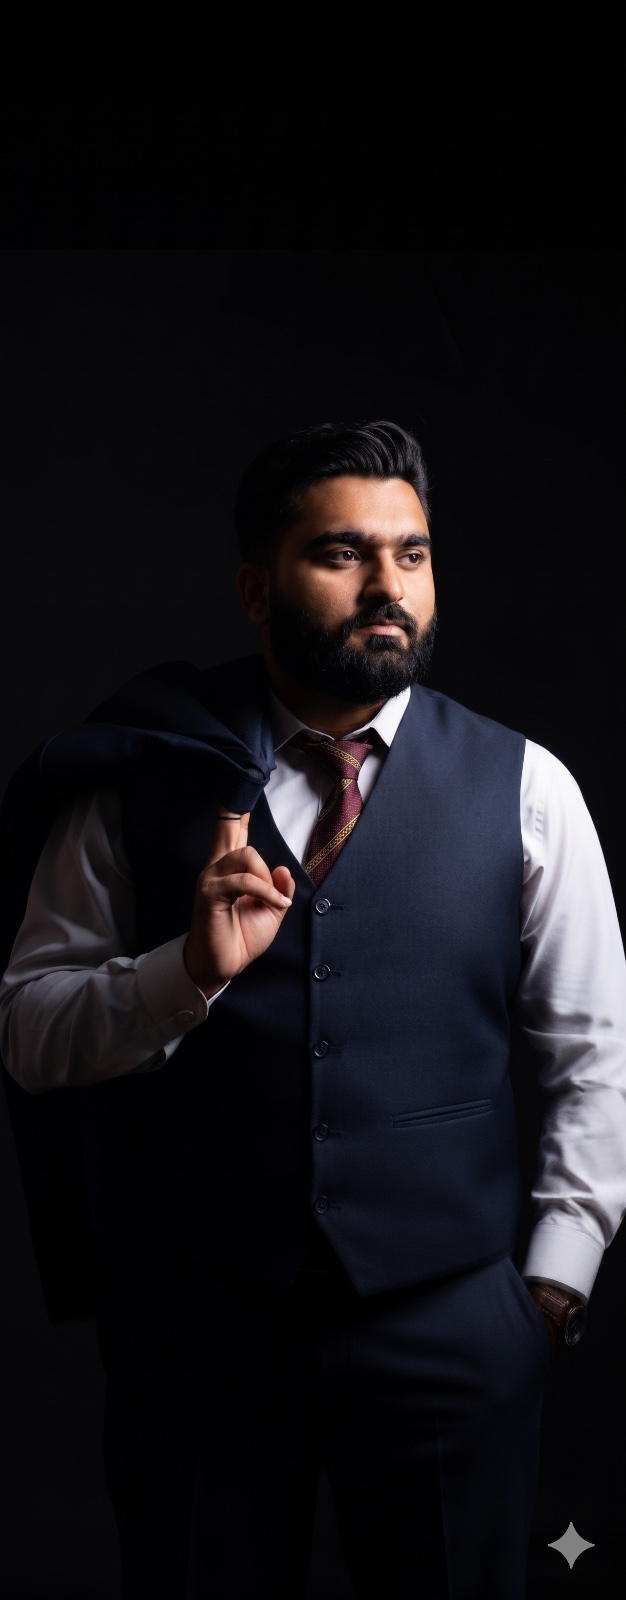
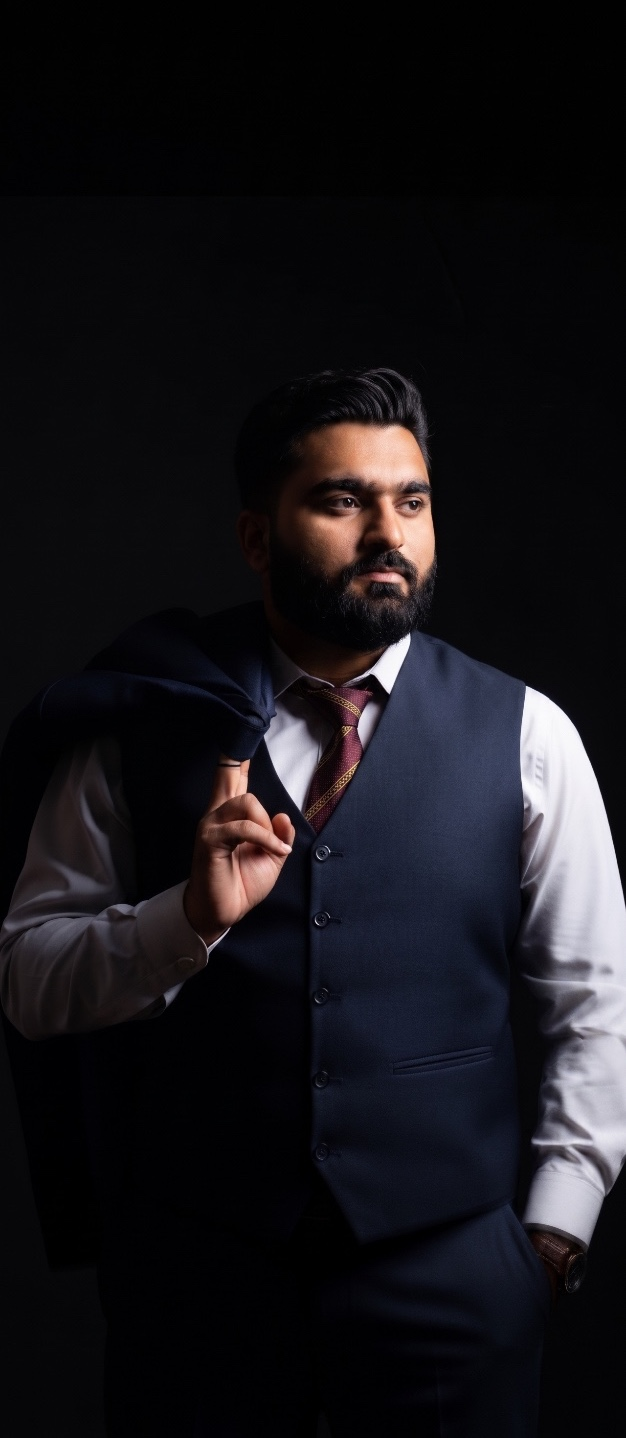
Changed the serviceBased page in service file, updated bakground pics with more appealing theme ,changed all the services details and updated the content by replacing dummy with real one

diff --git a/resources/js/Components/Hero/Services.jsx b/resources/js/Components/Hero/Services.jsx
@@ -89,9 +89,10 @@ const Services = () => {
             category: 'service',
             expertise: "DevOps & Scaling",
             stats: "99.9% Uptime",
-            description: "Scalable and secure cloud hosting, DevOps, and infrastructure management solutions.",
-            items: ["AWS/Azure Management", "CI/CD Pipelines", "Kubernetes Orchestration", "Server Migration"],
+            description: "Enterprise logistics platform for HTV fleet management — company fleet registration, multi-order dispatch, driver hiring, and real-time cargo tracking system..",
+            items: ["Fleet & Company Registration", "Multi-Order Bulk Dispatch", "Live Cargo Trading System", "Driver Hiring & Tracking"],
             bg: "bg-gradient-to-br from-orange-600/10 via-orange-600/5 to-transparent border-orange-500/20",
+            bgImage: "/assets/Website icons/LOADERS.png",
             image: "/assets/images/macbook.png",
             icon: "/assets/images/macbook_logo.png",
             techIcons: [
@@ -105,9 +106,10 @@ const Services = () => {
             category: 'service',
             expertise: "Security Audits",
             stats: "Zero Breaches",
-            description: "Enterprise-grade security audits, threat protection, and vulnerability assessments.",
-            items: ["Security Audits", "Penetration Testing", "Encryption Solutions", "Threat Monitoring"],
+            description: "On-demand home services marketplace — plumbers, electricians, mechanics, cleaners, AC techs, carpenters & more.",
+            items: ["Multi-Category Service Providers", "Customer Booking Portal", "Appointment Scheduling System", "Availability Management"],
             bg: "bg-gradient-to-br from-red-600/10 via-red-600/5 to-transparent border-red-500/20",
+            bgImage: "/assets/Website icons/KariGhar.png",
             image: "/assets/images/ai.png",
             icon: "/assets/images/ai_logo.png",
             techIcons: [
@@ -116,13 +118,14 @@ const Services = () => {
             ]
         },
         {
-            title: "Digital Marketing",
+            title: "3D-Print",
             category: 'service',
             expertise: "Growth Hacking",
             stats: "3x ROI",
-            description: "Data-driven marketing strategies to increase your online presence and conversion rates.",
-            items: ["SEO Optimization", "Social Media Management", "Content Strategy", "PPC Campaigns"],
+            description: "Industrial 3D printing lab with Bambu Lab H2, P2S & more — custom prints on demand, dedicated medical devices, toys, and industrial components manufacturing.",
+            items: ["On-Demand Custom Printing", "Medical Industry Products", "Toys & Industrial Components", "High-Precision Bambu Lab Fleet"],
             bg: "bg-gradient-to-br from-green-600/10 via-green-600/5 to-transparent border-green-500/20",
+            bgImage: "/assets/Website icons/3d.png",
             image: "/assets/images/studio.png",
             icon: "/assets/images/studio_logo.png",
             techIcons: [
@@ -198,6 +201,14 @@ const Services = () => {
                                     onClick={() => isMobile && setFlippedCard(isFlipped ? null : index)}
                                     className={`${service.bg} ${service.className || ''} rounded-[2rem] p-6 sm:p-10 lg:p-12 relative overflow-hidden group lg:min-h-[380px] border flex flex-col lg:flex-row gap-8 lg:gap-10 items-start text-left transition-all duration-500 hover:scale-[1.01] lg:hover:scale-[1.02] hover:shadow-2xl hover:shadow-blue-600/10 cursor-pointer lg:cursor-default`}
                                 >
+                                    {/* Background Image */}
+                                    {service.bgImage && (
+                                        <img
+                                            src={service.bgImage}
+                                            alt=""
+                                            className="absolute inset-0 w-full h-full object-cover opacity-10 lg:group-hover:opacity-100 transition-opacity duration-700 pointer-events-none select-none z-0"
+                                        />
+                                    )}
                                     {/* Mobile Flip Indicator */}
                                     {isMobile && (
                                         <div className="absolute top-6 right-6 text-[8px] font-black uppercase tracking-widest text-blue-600/50">
@@ -210,7 +221,7 @@ const Services = () => {
                                         {/* Default Screen */}
                                         <div className={`transition-all duration-700 ease-[cubic-bezier(0.23,1,0.32,1)] 
                                             ${isFlipped ? 'opacity-0 -translate-y-12 scale-95 blur-sm' : 'opacity-100 translate-y-0 scale-100'}
-                                            lg:group-hover:opacity-0 lg:group-hover:-translate-y-12 lg:group-hover:scale-95 lg:group-hover:blur-sm`}>
+                                            ${service.bgImage ? 'lg:group-hover:opacity-0 lg:group-hover:scale-95' : 'lg:group-hover:opacity-0 lg:group-hover:-translate-y-12 lg:group-hover:scale-95 lg:group-hover:blur-sm'}`}>
                                             <div className="flex items-center gap-4 mb-8">
                                                 <div className="flex-shrink-0 flex items-center justify-center">
                                                     <img src={service.icon} alt="" width={40} height={40} className="sm:w-[50px] sm:h-[50px] brightness-110" />
@@ -233,35 +244,46 @@ const Services = () => {
                                         </div>
 
                                         {/* Hover/Flip Screen - Insights Dashboard */}
-                                        <div className={`absolute inset-0 transition-all duration-700 ease-[cubic-bezier(0.23,1,0.32,1)] flex flex-col justify-center
-                                            ${isFlipped ? 'opacity-100 translate-y-0 pointer-events-auto' : 'opacity-0 translate-y-12 pointer-events-none'}
-                                            lg:group-hover:opacity-100 lg:group-hover:translate-y-0 lg:group-hover:pointer-events-auto`}>
-                                            <div className="flex items-center gap-3 mb-6">
-                                                <div className="w-10 h-10 rounded-full bg-blue-600/20 border border-blue-500/30 flex items-center justify-center">
-                                                    <img src={service.icon} alt="" width={24} height={24} className="brightness-125" />
-                                                </div>
-                                                <h4 className="text-lg font-black text-white uppercase tracking-widest">Insights</h4>
+                                        {service.bgImage ? (
+                                            /* Custom hover for bgImage cards (LOADERS) — only show Explore Solutions */
+                                            <div className={`absolute inset-0 transition-all duration-700 ease-[cubic-bezier(0.23,1,0.32,1)] flex flex-col justify-end items-center pb-4 z-40 
+                                                ${isFlipped ? 'opacity-100 translate-y-0 pointer-events-auto' : 'opacity-0 translate-y-6 pointer-events-none'}
+                                                lg:group-hover:opacity-100 lg:group-hover:translate-y-0 lg:group-hover:pointer-events-auto`}>
+                                                <button className="w-fit px-8 py-3 bg-blue-500/90 hover:bg-white/90 text-black text-[10px] font-black uppercase tracking-[0.2em] rounded-full transition-all duration-300 shadow-lg shadow-black/20 active:scale-95 backdrop-blur-sm -mt-8 ">
+                                                    Explore Solutions
+                                                </button>
                                             </div>
+                                        ) : (
+                                            <div className={`absolute inset-0 transition-all duration-700 ease-[cubic-bezier(0.23,1,0.32,1)] flex flex-col justify-center
+                                                ${isFlipped ? 'opacity-100 translate-y-0 pointer-events-auto' : 'opacity-0 translate-y-12 pointer-events-none'}
+                                                lg:group-hover:opacity-100 lg:group-hover:translate-y-0 lg:group-hover:pointer-events-auto`}>
+                                                <div className="flex items-center gap-3 mb-6">
+                                                    <div className="w-10 h-10 rounded-full bg-blue-600/20 border border-blue-500/30 flex items-center justify-center">
+                                                        <img src={service.icon} alt="" width={24} height={24} className="brightness-125" />
+                                                    </div>
+                                                    <h4 className="text-lg font-black text-white  tracking-widest">Insights</h4>
+                                                </div>
 
-                                            <div className="space-y-6 mb-8">
-                                                <div>
-                                                    <p className="text-[10px] text-gray-500 uppercase tracking-[0.2em] mb-1">Expertise</p>
-                                                    <p className="text-lg font-black text-blue-400 uppercase">{service.expertise}</p>
+                                                <div className="space-y-6 mb-8">
+                                                    <div>
+                                                        <p className="text-[10px] text-gray-500 uppercase tracking-[0.2em] mb-1">Expertise</p>
+                                                        <p className="text-lg font-black text-blue-400 uppercase">{service.expertise}</p>
+                                                    </div>
+                                                    <div>
+                                                        <p className="text-[10px] text-gray-500 uppercase tracking-[0.2em] mb-1">Key Result</p>
+                                                        <p className="text-lg font-black text-white uppercase">{service.stats}</p>
+                                                    </div>
                                                 </div>
-                                                <div>
-                                                    <p className="text-[10px] text-gray-500 uppercase tracking-[0.2em] mb-1">Key Result</p>
-                                                    <p className="text-lg font-black text-white uppercase">{service.stats}</p>
-                                                </div>
+
+                                                <button className="w-fit px-8 py-3 bg-blue-600 hover:bg-blue-500 text-white text-[10px] font-black uppercase tracking-[0.2em] rounded-full transition-all duration-300 shadow-lg shadow-blue-600/20 active:scale-95">
+                                                    Explore Solutions
+                                                </button>
                                             </div>
-
-                                            <button className="w-fit px-8 py-3 bg-blue-600 hover:bg-blue-500 text-white text-[10px] font-black uppercase tracking-[0.2em] rounded-full transition-all duration-300 shadow-lg shadow-blue-600/20 active:scale-95">
-                                                Explore Solutions
-                                            </button>
-                                        </div>
+                                        )}
                                     </div>
 
                                     {/* Visual Side */}
-                                    <div className="flex-1 w-full relative min-h-[200px] sm:min-h-[250px] lg:min-h-full self-stretch mt-6 lg:mt-0">
+                                    <div className={`flex-1 w-full relative min-h-[200px] sm:min-h-[250px] lg:min-h-full self-stretch mt-6 lg:mt-0 transition-all duration-700 ${service.bgImage ? (isFlipped ? 'opacity-0 scale-95' : 'lg:group-hover:opacity-0 lg:group-hover:scale-95') : ''}`}>
                                         <div className={`absolute inset-0 flex ${(service.title === 'UI/UX Designing' || service.title === 'Artificial Intelligence') ? 'items-end' : 'items-center'} justify-center transition-opacity duration-500 ${isFlipped ? 'opacity-20' : 'opacity-100'}`}>
                                             <motion.div
                                                 initial={{ scale: 0.8, opacity: 0, y: 20 }}

diff --git a/resources/js/Components/Hero/Team.jsx b/resources/js/Components/Hero/Team.jsx
@@ -135,7 +135,7 @@ const Team = () => {
         
         {
             name: "Zohaib Ahmed",
-            role: "CEO | Founder | ",
+            role: "CEO | Founder  ",
             experience: "7+ Years",
             projectsCount: "50+",
             quote: "Software is about more than just functionality—it’s about how it feels to use. A great app should work so naturally that the user never thinks about the complexity behind it.",
@@ -154,7 +154,7 @@ const Team = () => {
         },
         {
             name: "Muhammad Hassaan",
-            role: "COO | Founder | System Architect | Software Engineer",
+            role: "COO | Founder | Sys Architect",
             experience: "4+ Years",
             projectsCount: "20+",
             quote:"At the intersection of operations and engineering, I don’t just write code—I build systems that scale and companies that trust them. As COO and Co-Founder, I ensure every line of code aligns with business goals, every architecture supports growth, and every client experience feels seamless. From LLM integrations to backend resilience, I lead with structure, precision, and a designer’s eye for how software should feel to use.",

diff --git a/resources/js/Components/Hero/TechHeadline.jsx b/resources/js/Components/Hero/TechHeadline.jsx
@@ -4,7 +4,7 @@ import Counter from './Counter';
 
 const TechHeadline = () => {
     const techStack = [
-        { name: 'Python', icon: null, emoji: '🐍' },
+        { name: 'Python', icon: '/assets/Website icons/python.png' },
         { name: 'Figma', icon: '/assets/Website icons/figma.svg' },
         { name: 'PostgreSQL', icon: '/assets/Website icons/postgresql.svg' },
         { name: 'MongoDB', icon: '/assets/Website icons/mongodb.svg' },
@@ -15,8 +15,8 @@ const TechHeadline = () => {
         { name: 'GraphQL', icon: '/assets/Website icons/graphQL.svg' },
         { name: 'Prisma', icon: '/assets/Website icons/prisma.svg' },
         { name: 'Stripe', icon: '/assets/Website icons/stripe.svg' },
-        { name: 'Vercel', icon: '/assets/Website icons/vercel.jpeg' },
-        { name: 'GitHub', icon: '/assets/Website icons/github.svg' },
+        { name: 'Vercel', icon: '/assets/Website icons/vercel.svg' },
+        { name: 'GitHub', icon: '/assets/Website icons/github.png' },
         { name: 'Kubernetes', icon: null, emoji: '☸' }
     ];
 
